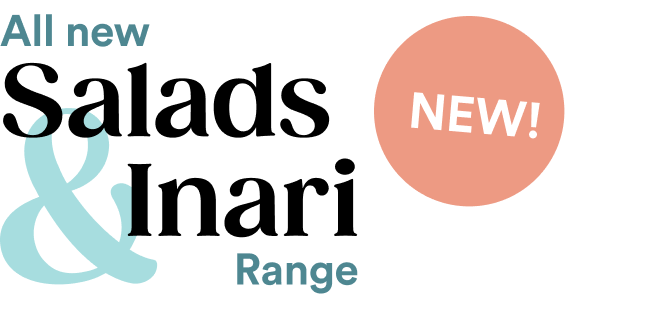
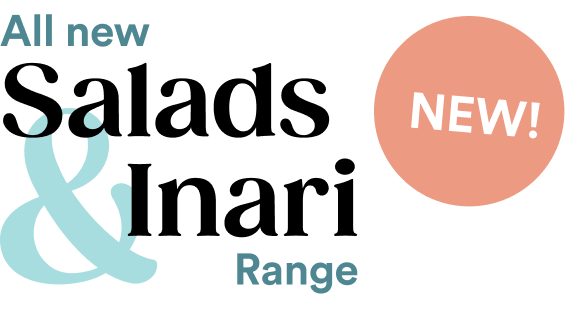
padding adjustments on mobile

diff --git a/app/components/homepage/Hero.jsx b/app/components/homepage/Hero.jsx
@@ -5,7 +5,7 @@ export default function Hero() {
         <div className="hero-container">
             <div className="container">
                 <div className="row">
-                    <div className="col-lg-6 my-5 pb-lg-2">
+                    <div className="col-lg-6 my-5 pb-lg-2 px-5 px-lg-0">
                         <img className={"img-fluid d-block d-lg-none"} alt={"All new salads and inari range"} src={"/images/hero/heading-mobile.png"}/>
                         <img className={"img-fluid d-none d-lg-block"} alt={"All new salads and inari range"} src={"/images/hero/heading-desktop.png"}/>
                         <p className="subtitle my-3">Send your taste buds on a trip with our new Japanese salads</p>
